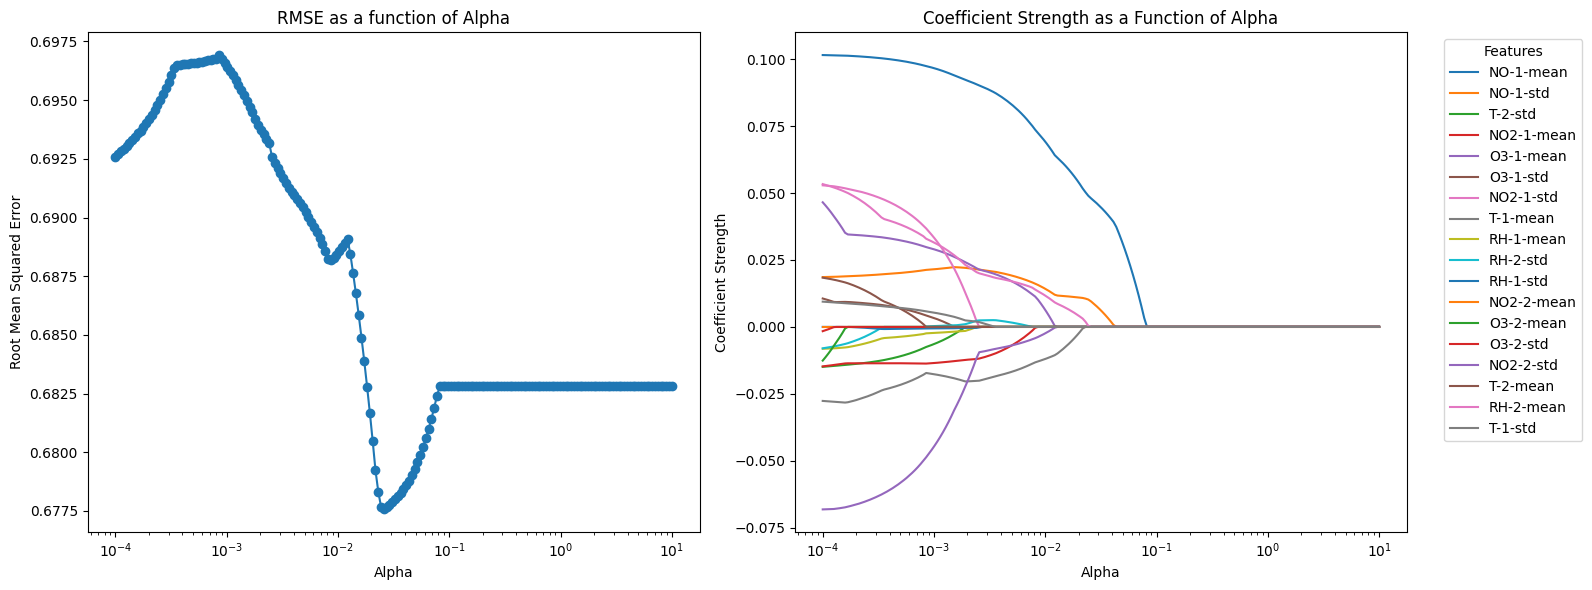
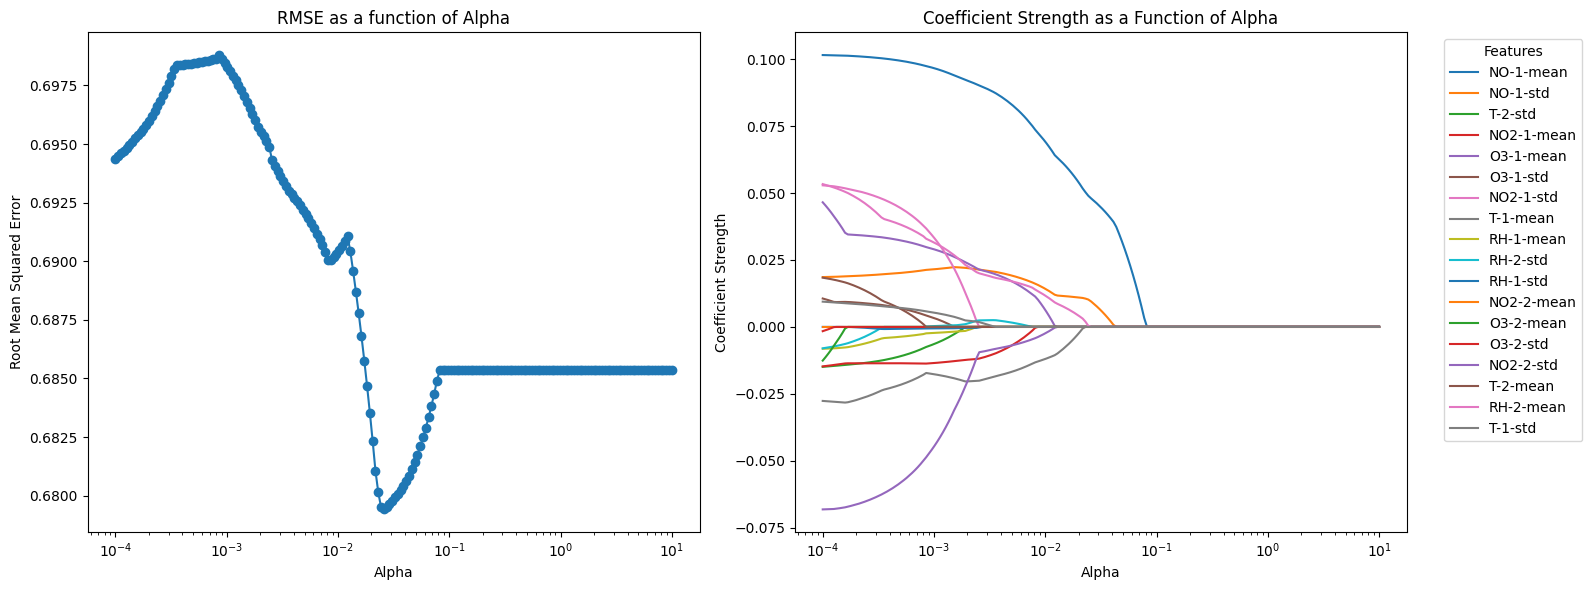
modified:   _posts/2024-02-14-low-cost-sensor.md 	modified:   assets/images/low-cost-sensor/fig1.png 	modified:   assets/images/low-cost-sensor/fig10.png 	modified:   assets/images/low-cost-sensor/fig11.png 	modified:   assets/images/low-cost-sensor/fig12.png 	modified:   assets/images/low-cost-sens

diff --git a/_posts/2024-02-14-low-cost-sensor.md b/_posts/2024-02-14-low-cost-sensor.md
@@ -59,8 +59,8 @@ The use of Lasso regression requires the optimization of the regularization term
 We will start with generic mutliple linear regression for CO concentration calibration. Since there is no CO sensors in the two sensor ndoes, we are expecting a poor calibration performance. MLR yields a R2 score of -0.36, this means that using the signal average can yield a better fit than this calibration model. Moroever, the fit takes all 18 features, making it difficult to interpret the true relationship between CO level and sensor responses.
 
 ```python
-Root Mean Squared Error (RMSE): 0.09407380054678562
-R-square (R2): -0.36237914239467117
+Root Mean Squared Error (RMSE): 0.09510190232570136
+R-square (R2): -0.36544117762102357
 
 Important features in ranked order:
 T-2-std: -0.030
@@ -92,12 +92,12 @@ RH-2-std: 0.000
 
 When Lasso is used, it takes a bit of optimization to find the best regularization strength that minimizes RMSE. However, it yields much better results compared to MLR
 
-The calibration for CO using Lasso gives an R2 score of 0.31, which is a poor score in terms of calibration, but it is way better than a negative score. In this fit, only 6 features are used, in contrast to the 18 in MLR. The high importance of the NO sensor indicates that the fitting power arises from the correlation between CO and NO. In other words, information about NO can provide information for CO to some extent.
+The calibration for CO using Lasso gives an R2 score of 0.32, which is a poor score in terms of calibration, but it is way better than a negative score. In this fit, only 6 features are used, in contrast to the 18 in MLR. The high importance of the NO sensor indicates that the fitting power arises from the correlation between CO and NO. In other words, information about NO can provide information for CO to some extent.
 
 ```python
 Best Alpha: 0.007663410868007463
-Lowest RMSE: 0.06704093498084798
-R-square (R2): 0.3081041404664757
+Lowest RMSE: 0.06729859740532539
+R-square (R2): 0.3162353989349179
 
 Important features in ranked order:
 NO-1-mean: 0.053
@@ -120,13 +120,13 @@ RH-2-std: -0.008
 
 ### NO
 
-We have a NO sensor in the sensor node, so we expect much better calibration performance for this target. MLR gives an R2 of 0.82, and again with 18 features. In contrast, Lasso gives an R2 score of 0.89 with 14 features.
+We have a NO sensor in the sensor node, so we expect much better calibration performance for this target. MLR gives an R2 of 0.83, and again with 18 features. In contrast, Lasso gives an R2 score of 0.89 with 14 features.
 
 The coefficient strength in MLR is difficult to interpret, with the standard deviation of NO2 and O3 sensors ranked at the top. While for Lasso, the most important feature is, unsurprisingly, the mean NO sensor signals, which is a much more interpretable result compared to generic MLR.
 
 ```python
-Root Mean Squared Error (RMSE): 4.205137710342014
-R-square (R2): 0.824079866484303
+Root Mean Squared Error (RMSE): 4.2264908237788
+R-square (R2): 0.8270971320082721
 
 Important features in ranked order:
 NO2-2-std: -4.818
@@ -157,25 +157,25 @@ RH-2-std: -0.013
 #### Lasso
 
 ```python
-Best Alpha: 0.10353218432956626
-Lowest RMSE: 3.3233438447063244
-R-square (R2): 0.8901232879755219
+Best Alpha: 0.09771241535346502
+Lowest RMSE: 3.351793279224709
+R-square (R2): 0.8912581323139401
 
 Important features in ranked order:
-NO-1-mean: 17.050
-T-1-mean: -2.978
-NO2-2-mean: 2.865
-NO-1-std: 2.623
-NO2-2-std: -2.239
-T-2-std: -1.330
-O3-1-mean: 1.252
-O3-2-std: 1.191
-NO2-1-std: 0.838
-RH-2-mean: 0.793
-RH-1-std: -0.470
-RH-1-mean: 0.360
-T-1-std: 0.319
-T-2-mean: -0.197
+NO-1-mean: 17.074
+T-1-mean: -2.961
+NO2-2-mean: 2.873
+NO-1-std: 2.613
+NO2-2-std: -2.404
+T-2-std: -1.379
+O3-1-mean: 1.292
+O3-2-std: 1.231
+NO2-1-std: 0.977
+RH-2-mean: 0.845
+RH-1-std: -0.486
+RH-1-mean: 0.378
+T-1-std: 0.345
+T-2-mean: -0.180
 ```
 
 <figure style="width: 1000px" class="align-center">
@@ -190,11 +190,11 @@ T-2-mean: -0.197
 
 ### NO2
 
-MLR yields an R2 value of 0.79 using 18 features. On the other hand, Lasso produces an R2 value of 0.86 using only 7 features, while maintaining an interpretable and intuitive feature importance ranking, where the NO2 sensor is ranked as the top feature.
+MLR yields an R2 value of 0.81 using 18 features. On the other hand, Lasso produces an R2 value of 0.88 using only 7 features, while maintaining an interpretable and intuitive feature importance ranking, where the NO2 sensor is ranked as the top feature.
 
 ```python
-Root Mean Squared Error (RMSE): 6.647697994239928
-R-square (R2): 0.7940828257208385
+Root Mean Squared Error (RMSE): 6.440397029953247
+R-square (R2): 0.8093599915341789
 
 Important features in ranked order:
 NO2-2-std: 2.284
@@ -226,8 +226,8 @@ RH-1-std: -0.013
 
 ```python
 Best Alpha: 1.0473708979594507
-Lowest RMSE: 5.541482212190994
-R-square (R2): 0.8569124344981707
+Lowest RMSE: 5.185303509790579
+R-square (R2): 0.876423147284822
 
 Important features in ranked order:
 NO2-1-mean: 14.588
@@ -254,8 +254,8 @@ O3-2-mean: -0.056
 MLR yields an R2 value of 0.94 using 18 features, while Lasso regression yields 0.97 with only 13 features. Both NO and NO2 sensors make significant contributions to the model, which is understandable as NOx includes both NO and NO2.
 
 ```python
-Root Mean Squared Error (RMSE): 6.604424782589308
-R-square (R2): 0.9397916775728876
+Root Mean Squared Error (RMSE): 6.254375354001741
+R-square (R2): 0.9471629963677434
 
 Important features in ranked order:
 O3-2-std: 6.393
@@ -287,8 +287,8 @@ RH-2-std: -0.003
 
 ```python
 Best Alpha: 0.2196385372416547
-Lowest RMSE: 4.638807395477192
-R-square (R2): 0.970297075476178
+Lowest RMSE: 4.07749877548234
+R-square (R2): 0.9775426774815258
 
 Important features in ranked order:
 NO-1-mean: 27.923
@@ -318,11 +318,11 @@ T-1-std: 0.212
 
 ### O3
 
-MLR yields an R2 value of 0.87 using 18 features, while Lasso regression yields 0.94 with only 5 features and O3 sensor is ranked as the top feature.
+MLR yields an R2 value of 0.89 using 18 features, while Lasso regression yields 0.97 with only 5 features and O3 sensor is ranked as the top feature.
 
 ```python
-Root Mean Squared Error (RMSE): 8.406568132845177
-R-square (R2): 0.8704081875775477
+Root Mean Squared Error (RMSE): 7.72672167952889
+R-square (R2): 0.8924033068746766
 
 Important features in ranked order:
 O3-2-mean: 2.171
@@ -353,16 +353,16 @@ RH-2-std: 0.003
 #### Lasso
 
 ```python
-Best Alpha: 0.4937047852839004
-Lowest RMSE: 5.585452993378217
-R-square (R2): 0.9427919832964997
+Best Alpha: 0.5231099308056264
+Lowest RMSE: 4.189159009206892
+R-square (R2): 0.9683727030249096
 
 Important features in ranked order:
-O3-2-mean: 9.233
-NO2-1-mean: -7.326
-O3-1-mean: 6.512
-NO-1-mean: 1.504
-RH-1-mean: -0.157
+O3-2-mean: 9.368
+NO2-1-mean: -7.288
+O3-1-mean: 6.325
+NO-1-mean: 1.425
+RH-1-mean: -0.133
 ```
 
 <figure style="width: 1000px" class="align-center">
@@ -377,11 +377,11 @@ RH-1-mean: -0.157
 
 ### SO2
 
-Another sanity check, aside from CO, is to confirm that the good fit for NO, NO2, NOx, and O3 is a result of the dedicated sensors in the sensor nodes. Not all analytes can be calibrated. In the calibration for SO2, MLR gives an R2 of -0.56, and Lasso gives -0.52 with only two features. Even in this difficult situation where nothing is useful, Lasso still outperforms MLR.
+Another sanity check, aside from CO, is to confirm that the good fit for NO, NO2, NOx, and O3 is a result of the dedicated sensors in the sensor nodes. Not all analytes can be calibrated. In the calibration for SO2, MLR gives an R2 of -0.56, and Lasso gives -0.51 with only two features. Even in this difficult situation where nothing is useful, Lasso still outperforms MLR.
 
 ```python
-Root Mean Squared Error (RMSE): 0.6886273041577045
-R-square (R2): -0.5655306095570658
+Root Mean Squared Error (RMSE): 0.6903626411439422
+R-square (R2): -0.5630798996908482
 
 Important features in ranked order:
 NO2-2-std: -0.060
@@ -413,8 +413,8 @@ RH-1-std: 0.000
 
 ```python
 Best Alpha: 0.025826187606826773
-Lowest RMSE: 0.6775644967412245
-R-square (R2): -0.5156341060941354
+Lowest RMSE: 0.6794162572743656
+R-square (R2): -0.5139045155954158
 
 Important features in ranked order:
 NO-1-mean: 0.048
